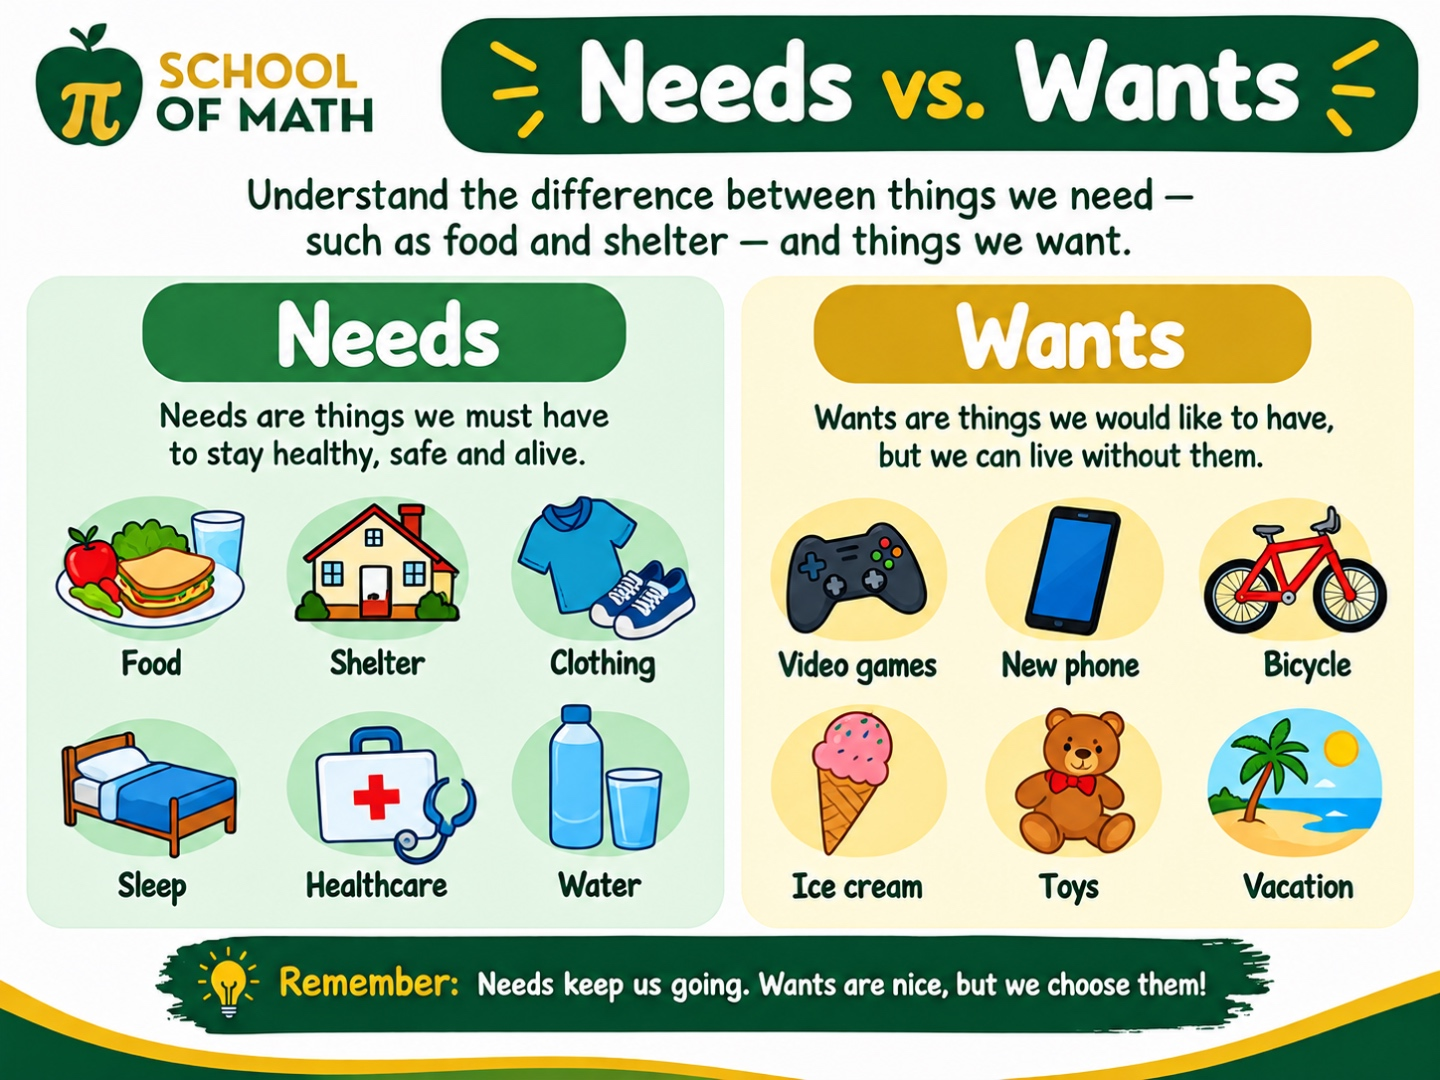
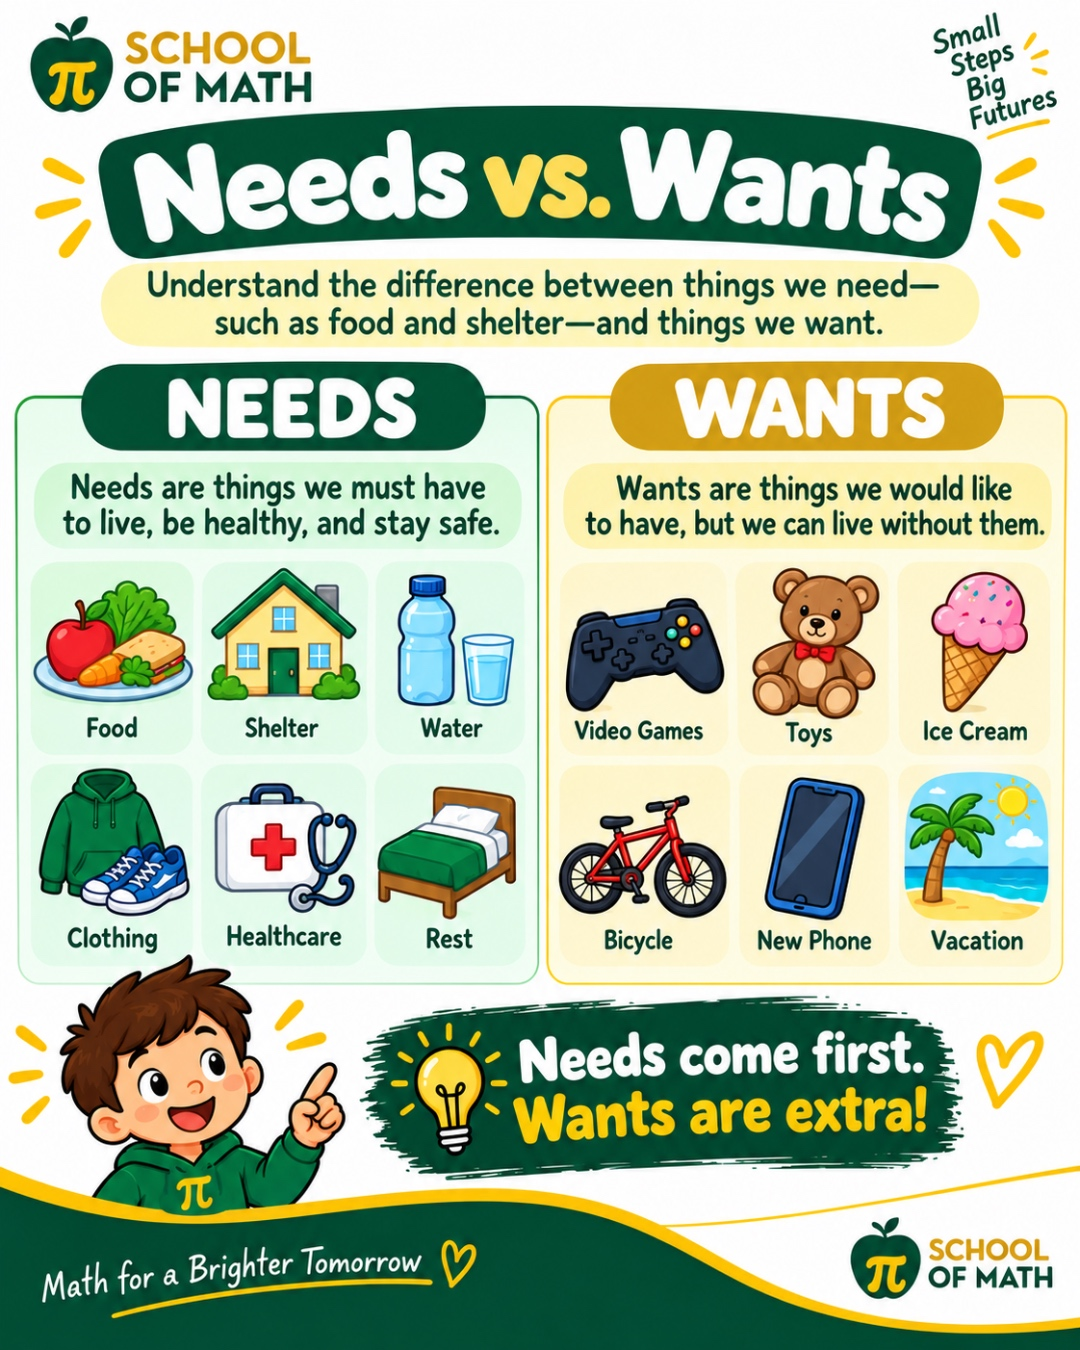
LN Class 11: swap posters 2 & 3 to updated versions; sync theory + FAQ

diff --git a/posts/needs-wants-saving-little-newtons.html b/posts/needs-wants-saving-little-newtons.html
@@ -59,7 +59,7 @@
           "name": "What is a need vs. a want (for kids)?",
           "acceptedAnswer": {
             "@type": "Answer",
-            "text": "A need is something we must have to stay healthy, safe, and alive — food, water, shelter, clothing, sleep, and healthcare. A want is something we’d like to have but can live without — video games, a new phone, a bicycle, ice cream, toys, or a vacation. When money is limited, needs come first. Wants are fine when needs are already covered. (Source: Poster 2 in this class pack.)"
+            "text": "A need is something we must have to live, be healthy, and stay safe — food, shelter, water, clothing, healthcare, and rest. A want is something we’d like to have but can live without — video games, toys, ice cream, a bicycle, a new phone, or a vacation. The poster’s rule: Needs come first. Wants are extra. (Source: Poster 2 in this class pack.)"
           }
         },
         {
@@ -279,7 +279,7 @@
         </div>
 
         <figure class="poster-figure">
-          <img class="poster-img" src="/assets/blog/ln-class-11-needs-wants-saving/2-Needs-vs-Wants.jpg" alt="SOMATH Little Newtons Class 11 Poster 2 — Needs vs. Wants. Needs: food, shelter, clothing, sleep, healthcare, water. Wants: video games, new phone, bicycle, ice cream, toys, vacation." loading="lazy" />
+          <img class="poster-img" src="/assets/blog/ln-class-11-needs-wants-saving/2-Needs-vs-Wants.jpg" alt="SOMATH Little Newtons Class 11 Poster 2 — Needs vs. Wants. Needs: food, shelter, water, clothing, healthcare, rest. Wants: video games, toys, ice cream, bicycle, new phone, vacation. Needs come first. Wants are extra." loading="lazy" />
           <figcaption>SOMATH poster 2 &mdash; Needs vs. wants.</figcaption>
         </figure>
 
@@ -287,18 +287,18 @@
           
 <p>This SOMATH poster teaches the difference between things we <em>need</em> and things we <em>want</em>.</p>
 <h4>Needs</h4>
-<p><strong>Needs are things we must have to stay healthy, safe, and alive.</strong> The poster shows six needs:</p>
+<p><strong>Needs are things we must have to live, be healthy, and stay safe.</strong> The poster shows six needs:</p>
 <ul>
-  <li>Food</li><li>Shelter</li><li>Clothing</li>
-  <li>Sleep</li><li>Healthcare</li><li>Water</li>
+  <li>Food</li><li>Shelter</li><li>Water</li>
+  <li>Clothing</li><li>Healthcare</li><li>Rest</li>
 </ul>
 <h4>Wants</h4>
 <p><strong>Wants are things we would like to have, but we can live without them.</strong> The poster shows six wants:</p>
 <ul>
-  <li>Video games</li><li>New phone</li><li>Bicycle</li>
-  <li>Ice cream</li><li>Toys</li><li>Vacation</li>
+  <li>Video games</li><li>Toys</li><li>Ice cream</li>
+  <li>Bicycle</li><li>New phone</li><li>Vacation</li>
 </ul>
-<div class="callout"><strong>Remember:</strong> needs keep us going. Wants are nice, but we <em>choose</em> them.</div>
+<div class="callout"><strong>Remember:</strong> <em>Needs come first. Wants are extra.</em></div>
 
         </div>
 
@@ -306,7 +306,7 @@
         <ol class="q-list">
         <li>
           <div class="q-text"><strong>Q1.</strong> What is a <em>need</em>?</div>
-          <details class="sol"><summary>Show explanation</summary><div>A need is <strong>something we must have to stay healthy, safe, and alive</strong> &mdash; like food, water, shelter, and healthcare.</div></details>
+          <details class="sol"><summary>Show explanation</summary><div>A need is <strong>something we must have to live, be healthy, and stay safe</strong> &mdash; like food, water, shelter, and healthcare.</div></details>
         </li>
         <li>
           <div class="q-text"><strong>Q2.</strong> What is a <em>want</em>?</div>
@@ -317,12 +317,12 @@
           <details class="sol"><summary>Show explanation</summary><div><strong>A want.</strong> The poster puts ice cream on the Wants side. It&rsquo;s a treat &mdash; we can live without it.</div></details>
         </li>
         <li>
-          <div class="q-text"><strong>Q4.</strong> Sort into needs and wants: <em>shelter, video games, sleep, bicycle</em>.</div>
-          <details class="sol"><summary>Show explanation</summary><div><strong>Needs:</strong> shelter, sleep. <strong>Wants:</strong> video games, bicycle.</div></details>
+          <div class="q-text"><strong>Q4.</strong> Sort into needs and wants: <em>shelter, video games, rest, bicycle</em>.</div>
+          <details class="sol"><summary>Show explanation</summary><div><strong>Needs:</strong> shelter, rest. <strong>Wants:</strong> video games, bicycle.</div></details>
         </li>
         <li>
-          <div class="q-text"><strong>Q5.</strong> The bottom of the poster says &ldquo;Needs keep us going. Wants are nice, but we ____ them.&rdquo; What word goes in the blank?</div>
-          <details class="sol"><summary>Show explanation</summary><div><strong>Choose.</strong> The poster reads: &ldquo;Needs keep us going. Wants are nice, but we <em>choose</em> them.&rdquo;</div></details>
+          <div class="q-text"><strong>Q5.</strong> Fill in the blank from the bottom of the poster: &ldquo;Needs come ____. Wants are ____.&rdquo;</div>
+          <details class="sol"><summary>Show explanation</summary><div><strong>&ldquo;Needs come <em>first</em>. Wants are <em>extra</em>.&rdquo;</strong> When money is limited, pay for needs before wants.</div></details>
         </li>
         </ol>
       </section>
@@ -334,7 +334,7 @@
         </div>
 
         <figure class="poster-figure">
-          <img class="poster-img" src="/assets/blog/ln-class-11-needs-wants-saving/3-Earn-Spend-Save-Share.jpg" alt="SOMATH Little Newtons Class 11 Poster 3 — Earn, Spend, Save, Share. The four things we can do with money, each with age-appropriate examples for grades 1–2." loading="lazy" />
+          <img class="poster-img" src="/assets/blog/ln-class-11-needs-wants-saving/3-Earn-Spend-Save-Share.jpg" alt="SOMATH Little Newtons Class 11 Poster 3 — Earn, Spend, Save, Share. The four things we can do with money, each with age-appropriate examples for grades 1–2, plus a ‘Which would you choose?’ practice block with four examples (do a chore, buy a special treat, put money in a jar, give to your community)." loading="lazy" />
           <figcaption>SOMATH poster 3 &mdash; Earn, spend, save, share.</figcaption>
         </figure>
 
@@ -343,11 +343,19 @@
 <p>The poster says there are <strong>four important things we can do with money</strong>.</p>
 <table class="fact-table">
   <tr><th>Word</th><th>What it means (from the poster)</th><th>Examples</th></tr>
-  <tr><td><strong>Earn</strong></td><td>We earn money by doing work, helping others, or receiving an allowance.</td><td>Allowance, chores, a job, or a gift for special work.</td></tr>
+  <tr><td><strong>Earn</strong></td><td>We earn money by doing work, helping others, chores, or receiving an allowance.</td><td>Allowance, chores, a job, or a gift for special work.</td></tr>
   <tr><td><strong>Spend</strong></td><td>We spend money to buy things we need or want.</td><td>Food, clothes, school supplies, toys, or a special treat.</td></tr>
   <tr><td><strong>Save</strong></td><td>We save money for the future, so we can reach our goals.</td><td>Saving for a bike, a game, a trip, or college one day.</td></tr>
   <tr><td><strong>Share</strong></td><td>We share money by giving to help others or to a good cause.</td><td>Donating to charity, helping a friend, or giving to a community cause.</td></tr>
 </table>
+<h4>&ldquo;Which would you choose?&rdquo; &mdash; the four examples on the poster</h4>
+<p>The bottom of the poster shows four everyday examples, one for each word:</p>
+<ul>
+  <li><strong>Earn</strong> &mdash; do a chore and earn an allowance.</li>
+  <li><strong>Spend</strong> &mdash; use money to buy a special treat.</li>
+  <li><strong>Save</strong> &mdash; put money in a jar for something you want.</li>
+  <li><strong>Share</strong> &mdash; give to help others in your community.</li>
+</ul>
 <div class="callout"><strong>Money can do good things &mdash; for you and for others.</strong> Every dollar can be split among these four jobs.</div>
 
         </div>
@@ -360,7 +368,7 @@
         </li>
         <li>
           <div class="q-text"><strong>Q2.</strong> Which of the four words means &ldquo;we do work or chores and money comes to us&rdquo;?</div>
-          <details class="sol"><summary>Show explanation</summary><div><strong>Earn.</strong> The poster says we earn money by doing work, helping others, or receiving an allowance.</div></details>
+          <details class="sol"><summary>Show explanation</summary><div><strong>Earn.</strong> The poster says we earn money by doing work, helping others, chores, or receiving an allowance.</div></details>
         </li>
         <li>
           <div class="q-text"><strong>Q3.</strong> Which of the four words is for money we <em>use now</em> to buy something?</div>
@@ -371,8 +379,8 @@
           <details class="sol"><summary>Show explanation</summary><div><strong>Save.</strong> The poster gives examples: a bike, a game, a trip, or college one day.</div></details>
         </li>
         <li>
-          <div class="q-text"><strong>Q5.</strong> Which of the four words means &ldquo;giving money to help others or a good cause&rdquo;?</div>
-          <details class="sol"><summary>Show explanation</summary><div><strong>Share.</strong> The poster lists: donating to charity, helping a friend, or giving to a community cause.</div></details>
+          <div class="q-text"><strong>Q5.</strong> On the &lsquo;Which would you choose?&rsquo; block, which word matches the example &ldquo;put money in a jar for something you want&rdquo;?</div>
+          <details class="sol"><summary>Show explanation</summary><div><strong>Save.</strong> Putting money in a jar toward something you want later is saving. The other three examples on the poster are: <em>Earn</em> — do a chore and earn an allowance; <em>Spend</em> — use money to buy a special treat; <em>Share</em> — give to help others in your community.</div></details>
         </li>
         </ol>
       </section>
@@ -684,7 +692,7 @@
               
           <details class="sol">
             <summary>What is a need vs. a want (for kids)?</summary>
-            <div>A <strong>need</strong> is something we must have to stay healthy, safe, and alive &mdash; food, water, shelter, clothing, sleep, and healthcare. A <strong>want</strong> is something we&rsquo;d like to have but can live without &mdash; video games, a new phone, a bicycle, ice cream, toys, or a vacation. When money is limited, needs come first. Wants are fine when needs are already covered. (Source: Poster 2 in this class pack.)</div>
+            <div>A <strong>need</strong> is something we must have to live, be healthy, and stay safe &mdash; food, shelter, water, clothing, healthcare, and rest. A <strong>want</strong> is something we&rsquo;d like to have but can live without &mdash; video games, toys, ice cream, a bicycle, a new phone, or a vacation. The poster&rsquo;s rule: <em>Needs come first. Wants are extra.</em> (Source: Poster 2 in this class pack.)</div>
           </details>
           <details class="sol">
             <summary>What are the four things you can do with money?</summary>
